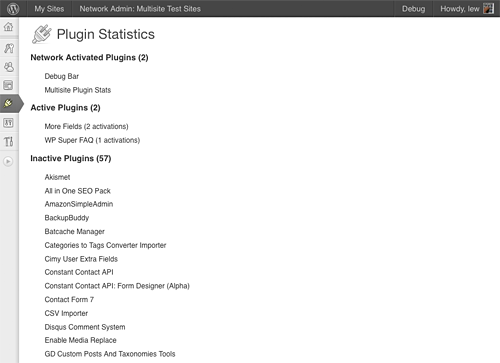
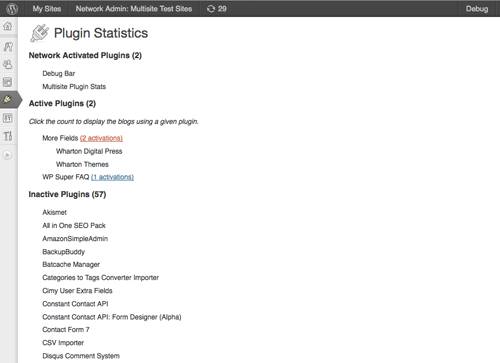
Added functionality for listing sites using a plugin. Closes #1

Changed region(s): [[0.0, 0.0, 1.0, 1.0]]

diff --git a/js/admin.js b/js/admin.js
@@ -1,0 +1,13 @@
+(function($) {
+	$(function() {
+		// Wire up the show/hide sites
+		$('.plugin_count').click(function(){
+			// Strip plugin_count_ to get id
+			id = $(this).attr('id').substr(13);
+			// Show/hide the appropriate ul
+			$('ul#site_list_'+id).toggle();
+			// Stop # jump
+			return(false);
+		});
+	});
+})(jQuery);

diff --git a/multisite-plugin-stats.php b/multisite-plugin-stats.php
@@ -3,7 +3,7 @@
 Plugin Name: Multisite Plugin Stats
 Plugin URI: http://wordpress.org/extend/plugins/multisite-plugin-stats/
 Description: A multisite plugin to show plugin activations across all your sites.
-Version: 1.0
+Version: 1.1
 Author: Lew Goettner
 Author URI: http://www.goettner.net
 License: GPL2
@@ -31,6 +31,7 @@ class MultisitePluginStats {
 		//declare hooks
 		add_action( 'network_admin_menu', array( &$this, 'add_menu' ) );
 		add_action( 'admin_head', array( &$this, 'custom_css') );
+		add_action( 'admin_enqueue_scripts', array( &$this, 'register_admin_scripts' ) );
 		add_action( 'plugins_loaded', array( &$this, 'localization' ) );
 		
 	}
@@ -62,11 +63,18 @@ class MultisitePluginStats {
 		// Get the network activated plugins
 		$network_plugins = get_site_option( 'active_sitewide_plugins');
 
+		// Initialize the name array
+		$site_names = array();
+
 		// Scan the sites for activation
 		$blogs = $wpdb->get_col("SELECT blog_id FROM {$wpdb->blogs} WHERE site_id = {$wpdb->siteid} AND spam = 0 AND deleted = 0");
+
 		if ($blogs) {
 			foreach($blogs as $blog_id) {
 				switch_to_blog($blog_id);
+
+				// Get the name and add it to the list
+				$site_names[$blog_id] = get_option('blogname');
 				
 				// Get active plugins
 				$site_plugins = (array) get_option( 'active_plugins', array() );
@@ -101,12 +109,27 @@ class MultisitePluginStats {
 		</ul>
 		
 		<h3><?php _e('Active Plugins', 'multisite_plugin_stats'); ?> (<?php echo count($active_plugins); ?>)</h3>
+		<p><em>Click the count to display the blogs using a given plugin.</em></p>
 		<ul class="plugin_list">
 		<?php
+			$counter = 0;
 			foreach ($active_plugins as $plugin => $blog_array) {
-				echo '<li>' . $plugin_info[$plugin]["Name"] . ' ('.count($blog_array).' activations)</li>';
+
+				echo '<li>' . $plugin_info[$plugin]["Name"] . ' ';
+				echo '<a href="#" class="plugin_count" id="plugin_count_'.$counter.'">';
+				echo '('.count($blog_array).' activations)</a>';
+				echo '</li>';
+
+				// List the sites
+				echo '<ul class="plugin_site_list" style="display:none;" id="site_list_'.$counter.'">';
+				foreach ($blog_array as $blog_id) {
+					echo '<li>' . htmlspecialchars($site_names[$blog_id]) . '</li>';
+				}
+				echo '</ul>';
+				
 				// Remove it from the list
 				unset($plugin_info[$plugin]);
+				$counter++;
 			}
 		?>
 		</ul>
@@ -126,11 +149,22 @@ class MultisitePluginStats {
 	
 	// Add a little style
 	function custom_css() {
-		 echo '<style type="text/css">
+		echo '<style type="text/css">
 						 .plugin_list li { margin-left: 2em; }
+						 .plugin_site_list li { margin-left: 4em; }
 					 </style>';
 	}
+
+	/**
+	 * Registers and enqueues admin-specific JavaScript.
+	 */	
+	public function register_admin_scripts() {
 	
+		wp_register_script( 'multisite-plugin-stats-admin-script', plugins_url( 'multisite-plugin-stats/js/admin.js' ) );
+		wp_enqueue_script( 'multisite-plugin-stats-admin-script' );
+	
+	} // end register_admin_scripts
+
 }
 
 $multisite_plugin_stats = new MultisitePluginStats();
